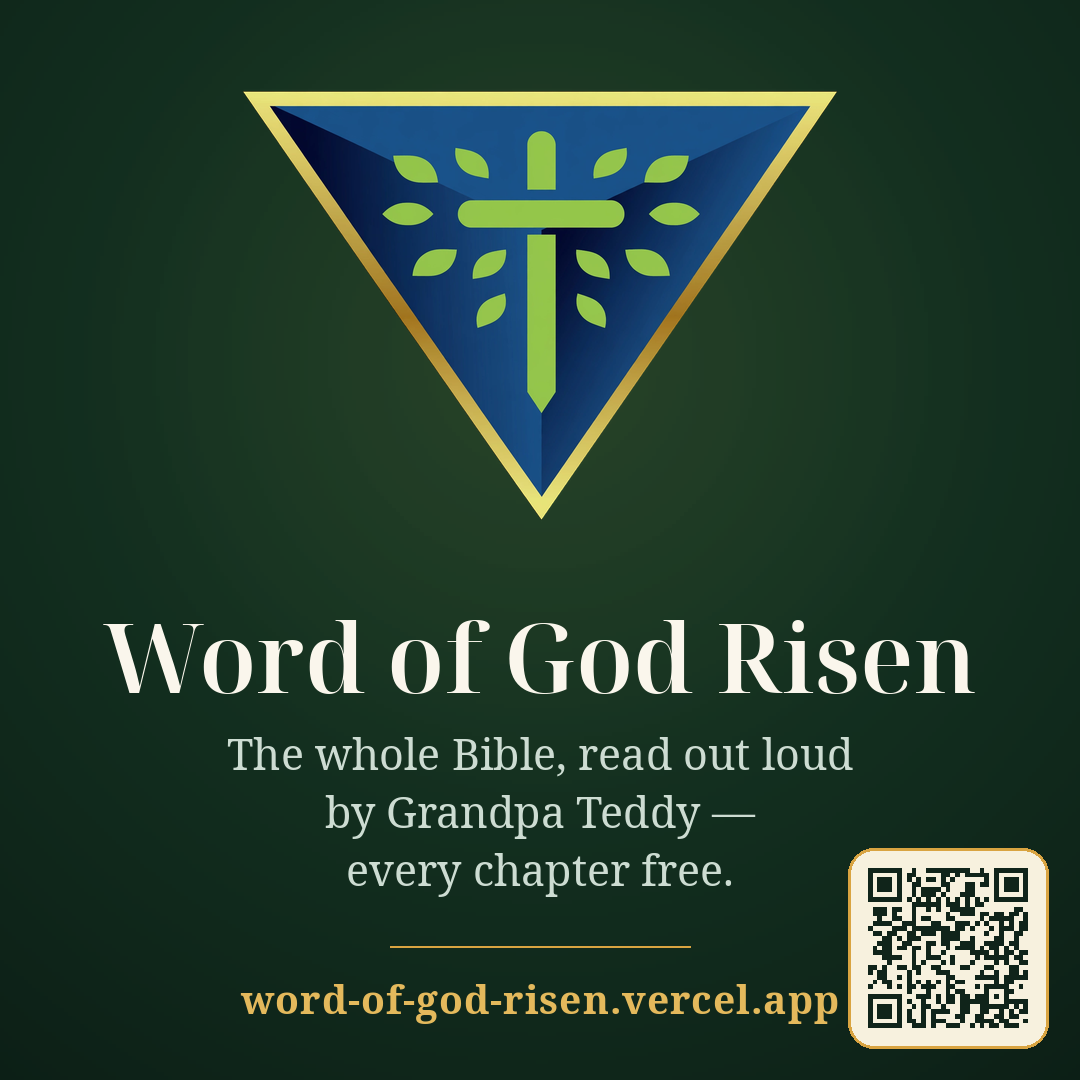
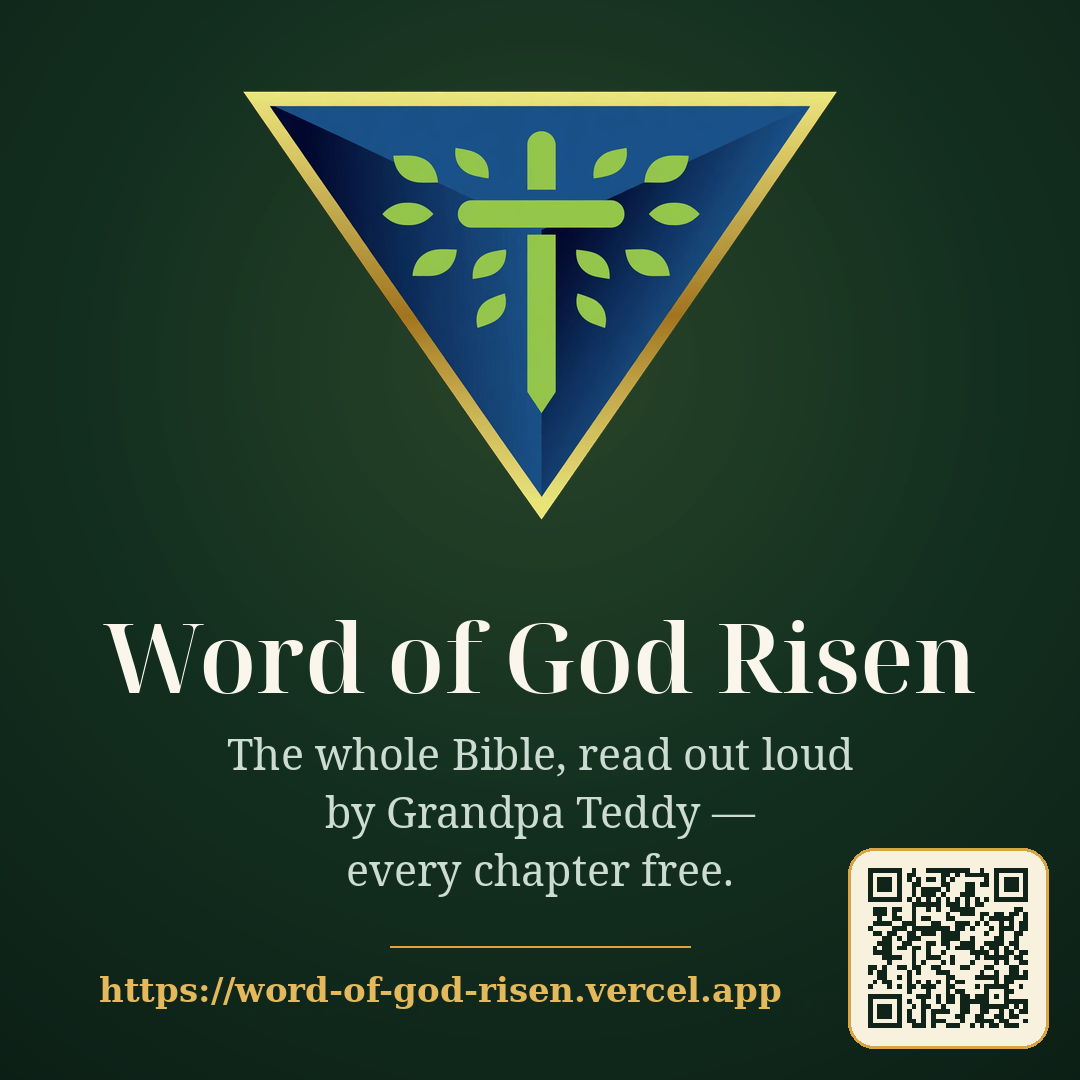
Share card: print the full https:// address under the QR (Jason's direction from a live user report)

Changed region(s): [[0.0917, 0.8861, 0.7944, 0.9472]]

diff --git a/public/sw.js b/public/sw.js
@@ -4,7 +4,7 @@
    only the app's own shell and static files. API calls and audio are
    NEVER cached: the heartbeat stays live and chapter audio streams. */
 
-const CACHE = "wogr-shell-v2";
+const CACHE = "wogr-shell-v3";
 const SHELL = [
   "/",
   "/offline",
